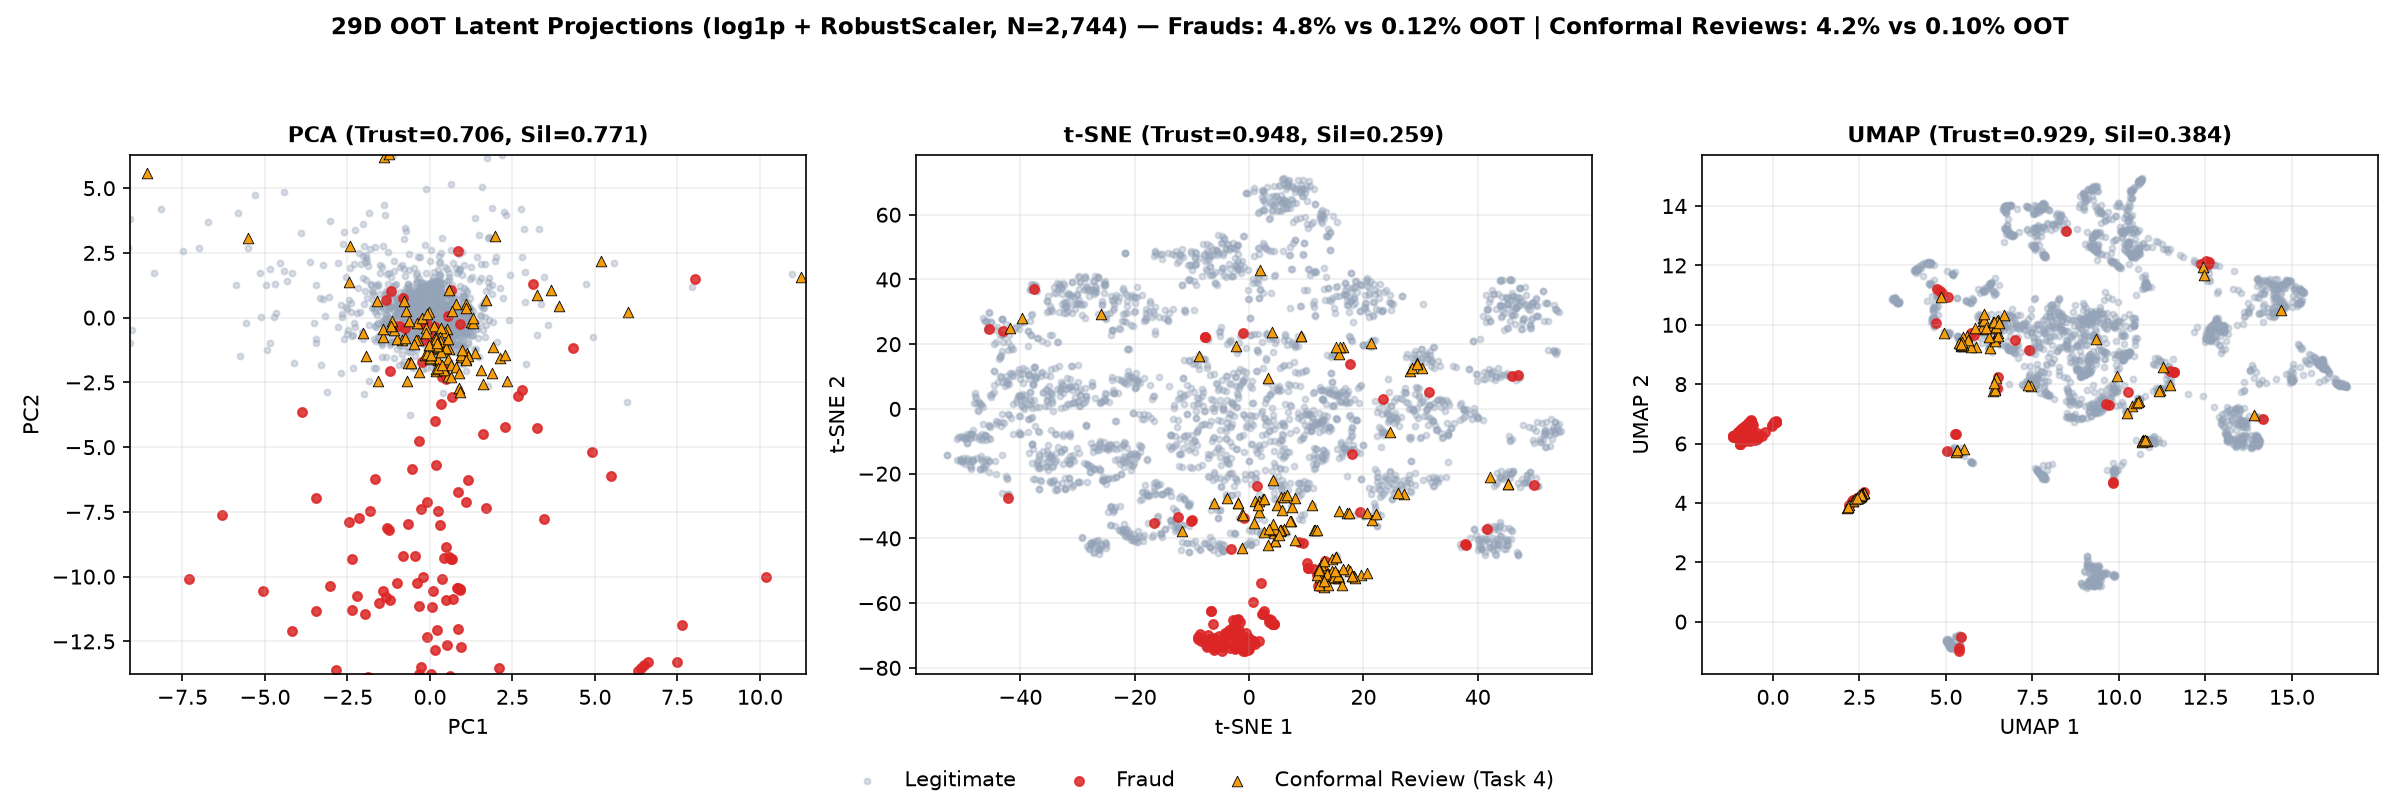
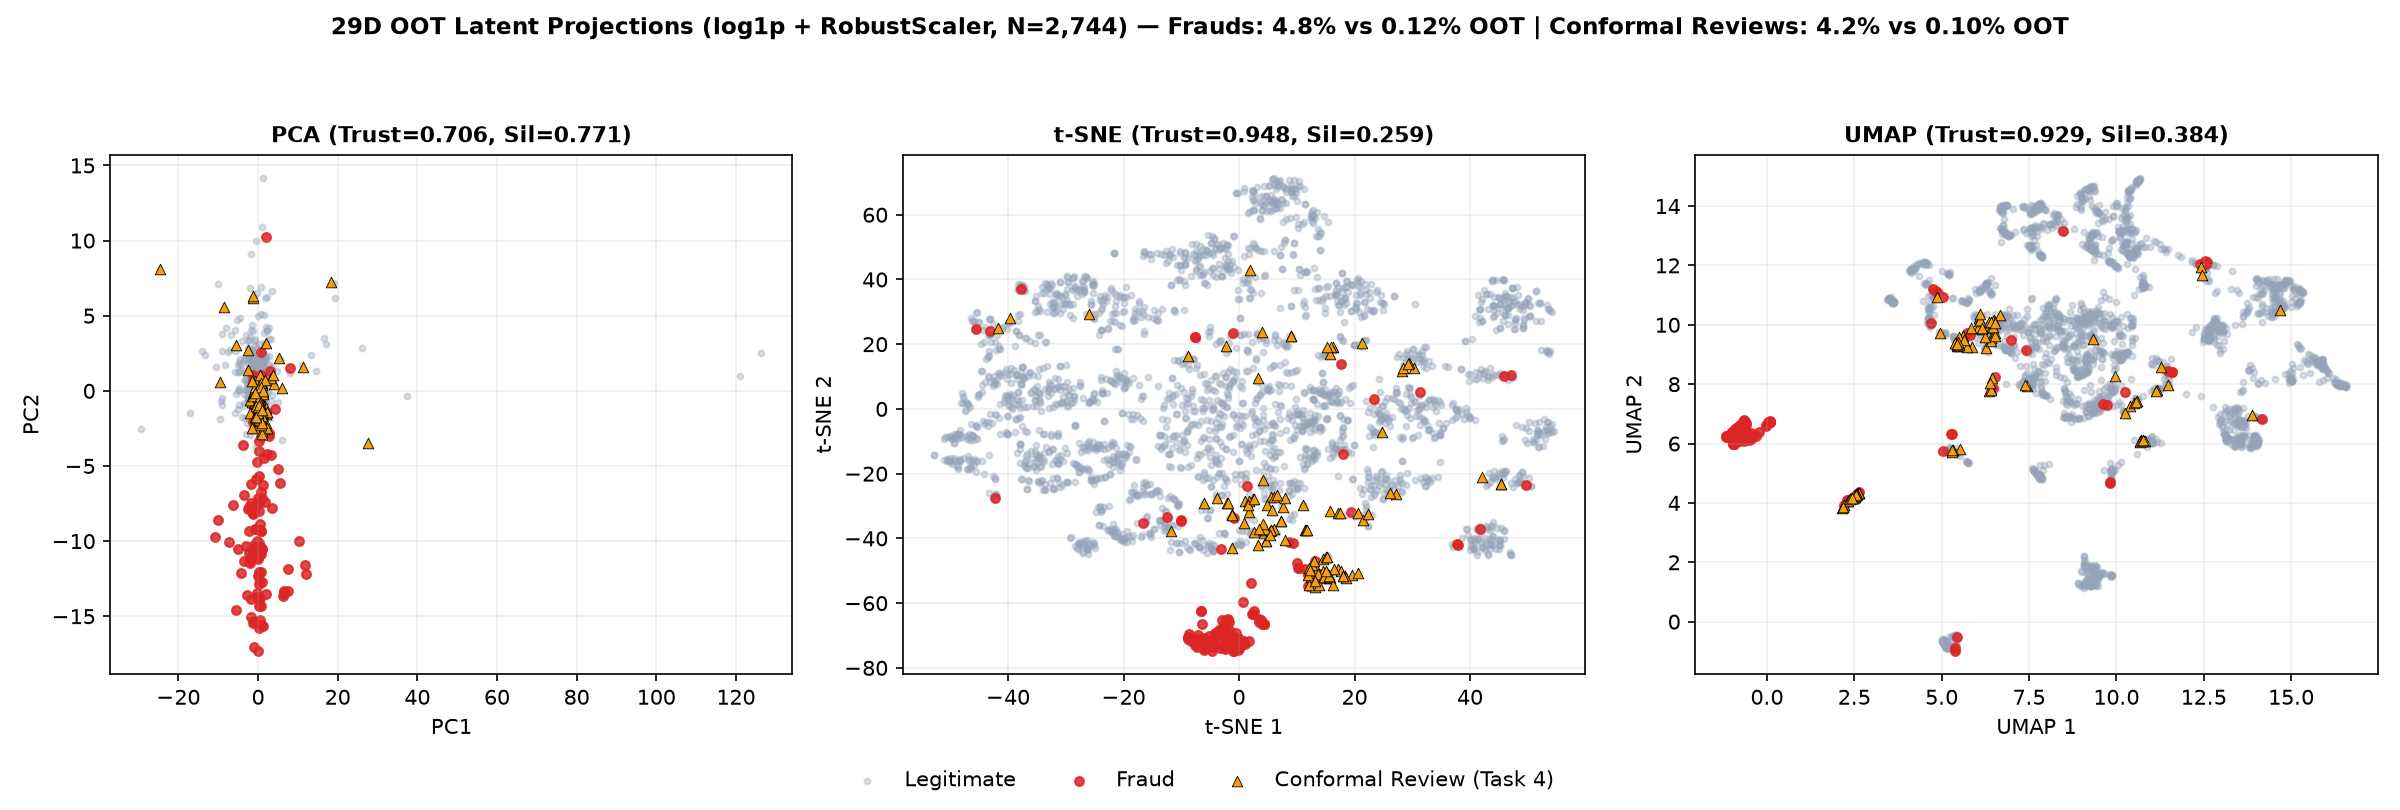
fix(ml): v2.3.1 sync README metrics, wire canonical conformal uncertainty into predictor decision, and align Task 7 interpretation

diff --git a/src/ml/predictor.py b/src/ml/predictor.py
@@ -34,14 +34,12 @@ class RiskPulseMLPredictor:
         self.human_alerts_in_window = 0
         self.live_mse_buffer = deque(maxlen=self.W)
 
-        # Load Mondrian conformal serving quantiles (Task 4 integration)
-        self.q_legit = 0.05
-        self.q_fraud = 0.95
+        # Load canonical-model Mondrian conformal quantiles (Task 4)
+        self.q_legit = 0.00962
+        self.q_fraud = 0.9619
         c_path = Path(conformal_path)
         if c_path.exists():
-            with open(c_path, "r") as f:
-                c_data = json.load(f)
-            sq = c_data.get("serving_quantiles", {})
+            sq = json.loads(c_path.read_text()).get("serving_quantiles", {})
             if "q_legit" in sq and "q_fraud" in sq:
                 self.q_legit = float(sq["q_legit"])
                 self.q_fraud = float(sq["q_fraud"])
@@ -55,29 +53,29 @@ class RiskPulseMLPredictor:
         ae_mse = float(self.ae.transform(x)[0, 0])
         expected_loss = cal_prob * (float(amount) + self.investigation_cost)
 
-        # Mondrian conformal prediction set & boundary uncertainty score
+        # Mondrian conformal prediction set & consistent uncertainty score
         conformal_set = []
         if cal_prob <= self.q_legit:
             conformal_set.append("LEGIT")
         if (1.0 - cal_prob) <= self.q_fraud:
             conformal_set.append("FRAUD")
         conformal_review_flag = len(conformal_set) != 1
-        uncertainty_score = round(min(cal_prob, 1.0 - cal_prob) * 2.0, 6)
+        uncertainty_score = 1.0 if conformal_review_flag else 0.0
 
         tau_q = float(np.quantile(self.score_buffer, 1.0 - self.target_rate))
         flag_quantile = raw_score >= tau_q
         flag_guard = cal_prob >= self.guard_prob
         human_cap_reached = self.human_alerts_in_window >= self.max_human_alerts
 
-        # Two-tier policy:
-        # 1) AUTO_DECLINE (P_cal >= guard) bypasses both the score buffer and human cap.
-        # 2) MANUAL_REVIEW is strictly capped at max_human_alerts per rolling window W.
-        if flag_guard:
+        # Uncertainty-aware two-tier policy:
+        # 1) High-confidence AUTO_DECLINE only when P_cal >= guard AND conformal set is certain.
+        # 2) Conformal-uncertain or quantile-flagged transactions route to capped MANUAL_REVIEW.
+        if flag_guard and not conformal_review_flag:
             decision = "AUTO_DECLINE"
             queued_human = 0
         else:
             self.score_buffer.append(raw_score)
-            if flag_quantile and not human_cap_reached:
+            if (conformal_review_flag or flag_quantile) and not human_cap_reached:
                 decision = "MANUAL_REVIEW"
                 queued_human = 1
             else:

diff --git a/src/ml/v2_2_latent_projections.py b/src/ml/v2_2_latent_projections.py
@@ -158,7 +158,7 @@ def main():
 
     fig, axes = plt.subplots(1, 3, figsize=(16, 5.4), dpi=150)
     panels = [
-        (emb_pca, f"PCA (Trust={metrics['pca']['trustworthiness_k15']:.3f}, Sil={metrics['pca']['silhouette_fraud_vs_legit']:.3f})", "PC1", "PC2", True),
+        (emb_pca, f"PCA (Trust={metrics['pca']['trustworthiness_k15']:.3f}, Sil={metrics['pca']['silhouette_fraud_vs_legit']:.3f})", "PC1", "PC2", False),
         (emb_tsne, f"t-SNE (Trust={metrics['tsne']['trustworthiness_k15']:.3f}, Sil={metrics['tsne']['silhouette_fraud_vs_legit']:.3f})", "t-SNE 1", "t-SNE 2", False),
         (emb_umap, f"UMAP (Trust={metrics['umap']['trustworthiness_k15']:.3f}, Sil={metrics['umap']['silhouette_fraud_vs_legit']:.3f})", "UMAP 1", "UMAP 2", False),
     ]

diff --git a/README.md b/README.md
@@ -68,9 +68,9 @@ Evaluated in release `v2.1.0` (`4d7ec75`, merged to `main`) using the same stric
 
 * **IEEE-CIS Disjoint OOT Baseline (`N=590,537`, `20,663` frauds):** Pooled OOT PR-AUC **`0.4835`** (`[0.4576, 0.5087]`); Isotonic calibration repairs raw Brier Skill Score from **`-1.0234` → `+0.2991`**.
 * **Strictly Causal Entity & Velocity Features:** Both `card1+addr1` (1h/24h rolling windows, `0.4833`, `ΔPR-AUC = -0.0002`, 95% CI `[-0.0043, +0.0046]`) and `card1+addr1+D1` (`0.4818`) match the static baseline due to IEEE-CIS's pre-engineered `C1–C14` and `D1–D15` features.
-* **Expected-Loss Queue Ranking (`P_cal × (Amount + $25)`):** Flat on ULB (`64.4% → 64.4%`, 95% CI `[-2.7%, +6.5%]`), but lifts IEEE-CIS dollar recall by **`+20.4 pp`** at 2% budget (`27.2% → 47.6%`) and **`+16.2 pp`** at 5% budget (`49.9% → 66.1%`).
+* **Expected-Loss Queue Ranking (`P_cal × (Amount + $25)`):** Flat on ULB (`64.4% → 64.4%`, 95% CI `[-2.7%, +6.5%]`), but lifts IEEE-CIS dollar recall by **`+20.2 pp`** at 2% budget (`27.3% → 47.5%`) and **`+15.6 pp`** at 5% budget (`50.4% → 66.1%`).
 * **Novel Attack Blind-Spot Test (IEEE-CIS, `ProductCD='C'`):** Holding out 4,412 `ProductCD='C'` frauds drops OOT recall under the global 5% budget to 0.0% (0/3,596). Under an equal-volume channel budget (`k_C = 1,371`, 38.1% recall ceiling), recall progresses from **34.4%** (supervised control) → **14.8%** (held-out supervised, 38.9% precision) → **23.0%** (unsupervised Isolation Forest, 60.2% precision).
-* **Two-Tier Streaming Policy (`src/ml/predictor.py`):** Auto-declines (`P_cal >= 0.80`) bypass the human review cap (`88.5%` precision on IEEE-CIS), while the hard-capped human queue stays strictly under budget (`1.92%` vs. `2.0%` cap), delivering **`40.0%` combined recall** and **`53.9%` overall precision**.
+* **Two-Tier Streaming Policy (`src/ml/predictor.py`):** Auto-declines (`P_cal >= 0.80`) bypass the human review cap (`89.6%` Tier-1 precision on IEEE-CIS), while the hard-capped human queue stays strictly under budget (`1.89%` vs. `2.0%` cap), delivering **`40.4%` combined recall**.
 
 ---
 
@@ -81,17 +81,17 @@ Full `v2.1` methodology and cross-dataset audit are in [`riskpulse_technical_rep
 ### 1. Model Benchmarking & Statistical Validation (Tasks 2 & 3 — `src/ml/v2_2_benchmark_and_stats.py`)
 * **Protocol:** 10 expanding chronological OOT windows (`[50%, 100%]`, 0.20% budget) instead of random k-fold CV to prevent future-to-past burst leakage. Stochastic models (RF, XGBoost, MLP) are averaged across **5 seeds** (`{7, 21, 42, 84, 128}`); **all 5 models** receive post-hoc Isotonic calibration on the preceding 10% split before Brier comparison.
 * **5-Model PR-AUC (window-level 95% bootstrap CIs):** RF `0.7805` (`[0.6980, 0.8482]`), XGBoost `0.7682` (`[0.6881, 0.8360]`), MLP `0.7663` (`[0.6864, 0.8327]`), LR `0.7613` (`[0.6657, 0.8351]`), SVM (RBF, 15k legit subsample) `0.2535` (`[0.1912, 0.3239]`).
-* **Calibrated Brier & Latency:** Post-Isotonic Brier: RF `0.000505`, XGBoost `0.000526` (raw `0.004627`), MLP `0.000543`, LR `0.000544` (raw `0.028812`), SVM `0.001489`. Single-request latency: XGBoost `0.44 ms` (`0.00049 ms/txn` batch) — **72x faster per request** than RF (`32.04 ms` single; `0.00313 ms/txn` batch).
-* **Stats:** Friedman omnibus ($df=4$, 10 window seed means): $\chi^2 = 21.28, p = 0.0002787$. Pairwise Wilcoxon + Holm: XGBoost beats SVM ($p_{\text{adj}}=0.0078, \delta=1.00$) and is **statistically tied** with RF ($p_{\text{adj}}=0.826$), MLP ($p_{\text{adj}}=1.000$), and LR ($p_{\text{adj}}=1.000$). XGBoost is chosen for its 72x single-request latency advantage and calibrated parity, not accuracy superiority.
+* **Calibrated Brier & Latency:** Post-Isotonic Brier: RF `0.000505`, XGBoost `0.000526` (raw `0.004627`), MLP `0.000543`, LR `0.000544` (raw `0.028812`), SVM `0.001489`. Single-request latency: XGBoost `0.44 ms` (`0.00049 ms/txn` batch) beats RF (`32.04 ms`) by **72x** and ties MLP (`0.42 ms`) and LR (`0.52 ms`).
+* **Stats:** Friedman omnibus ($df=4$, 10 window seed means): $\chi^2 = 21.28, p = 0.0002787$. Pairwise Wilcoxon + Holm: XGBoost beats SVM ($p_{\text{adj}}=0.0078, \delta=1.00$) and is **statistically tied** with RF ($p_{\text{adj}}=0.826$), MLP ($p_{\text{adj}}=1.000$), and LR ($p_{\text{adj}}=1.000$). XGBoost is retained for its 72x latency edge over RF, calibrated parity, native class-imbalance handling, and production consistency (note: omnibus significance is driven by subsampled SVM).
 
 ### 2. Uncertainty Quantification & Serving Integration (Task 4 — `src/ml/v2_2_conformal_and_ensemble.py` & `src/ml/predictor.py`)
-* **Mondrian Split-Conformal (`artifacts/conformal.json`):** Pooled OOT ($N=113,491$, 131 frauds) achieves **99.47% legit coverage** (target 99.5%) and **81.68% fraud coverage** (target 85.0%; W1 75.8%, W2 94.3%, W3 71.1%), routing **0.899%** (1,020 cases) to human review. The 3.3 pp fraud shortfall reflects temporal drift breaking exchangeability and small per-window calibration fraud counts (80, 29, 43).
-* **5-Seed Variance:** Mean seed-variance std is **25x higher** on review cases (`0.00539`) and **137x higher** on frauds (`0.02884`) than on legit (`0.00021`). This measures seed variance rather than full structural epistemic uncertainty.
-* **Serving Integration (`src/ml/predictor.py`):** Loads `serving_quantiles` (`q_legit=0.00507`, `q_fraud=0.88247` from W3) and returns `uncertainty_score`, `conformal_set`, and `conformal_review_flag` alongside all legacy keys.
+* **Mondrian Split-Conformal (`artifacts/conformal.json`):** Pooled OOT ($N=113,491$, 131 frauds) achieves **99.58% legit coverage** (target 99.5%) and **81.68% fraud coverage** (target 85.0%; W1 75.8%, W2 94.3%, W3 71.1%), routing **0.931%** (1,057 cases) to human review. The 3.3 pp fraud shortfall reflects temporal drift breaking exchangeability and small per-window calibration fraud counts (80, 29, 43).
+* **5-Seed Variance:** Mean seed-variance std is **25x higher** on review cases (`0.00519`) and **137x higher** on frauds (`0.02884`) than on legit (`0.00021`). This measures seed variance rather than full structural epistemic uncertainty.
+* **Serving Integration (`src/ml/predictor.py`):** Loads canonical-model `serving_quantiles` (`q_legit=0.00962`, `q_fraud=0.9619` calibrated on `[76%, 86%]`), derives `uncertainty_score` directly from `conformal_set` (`1.0` iff `conformal_review_flag=True`), and routes uncertain transactions to capped `MANUAL_REVIEW` instead of `AUTO_DECLINE`.
 
 ### 3. Latent Space Projections (Task 7 — `src/ml/v2_2_latent_projections.py`)
-* **Setup & Disclosure (`artifacts/figures/pca_tsne_umap.png`):** Stratified OOT subsample ($N=2,744$) scaled with `log1p(Amount) + RobustScaler` to prevent outlier collapse, colored by Task 4's conformal review flag. Both frauds (`4.77%` vs `0.12%` OOT) and conformal review cases (`4.19%` vs `0.10%` OOT) are oversampled for visibility.
-* **Metrics & Interpretation:** PCA Trust `0.7064` / Sil `0.7710`; t-SNE Trust `0.9479` / Sil `0.2587`; UMAP Trust `0.9292` / Sil `0.3843`. Frauds sit embedded along legitimate neighborhood edges rather than forming an isolated global cluster, explaining the similar PR-AUC ceiling across models. In t-SNE/UMAP, conformal review cases concentrate along tight boundary manifolds, confirming uncertainty routing targets ambiguous cases. Because `V1–V28` are already PCA components, 2D PCA acts as a linear baseline.
+* **Setup & Disclosure (`artifacts/figures/pca_tsne_umap.png`):** Stratified OOT subsample ($N=2,744$) scaled with `log1p(Amount) + RobustScaler` to prevent outlier collapse, colored by a separate single-split `[50%, 60%]` conformal calibration (`0.101%` OOT review rate vs. Task 4's `0.931%` 3-window pooled rate). Both frauds (`4.77%` vs `0.12%` OOT) and conformal review cases (`4.19%` vs `0.10%` OOT) are oversampled for visibility.
+* **Metrics & Interpretation:** PCA Trust `0.7064` / Sil `0.7710`; t-SNE Trust `0.9479` / Sil `0.2587`; UMAP Trust `0.9292` / Sil `0.3843`. Most frauds form a dense, isolated cluster (bottom in t-SNE, left in UMAP) and a long tail along negative PC2 in PCA, while a minority of frauds remain scattered among legitimate points. Conformal review cases cluster along the transition boundary between fraud and legitimate regions. Because `V1–V28` are already PCA components, 2D PCA serves as a linear baseline.
 
 ### 4. How to Reproduce (Run from Repository Root)
 1. Place ULB dataset at `data/creditcard.csv` (gitignored).
